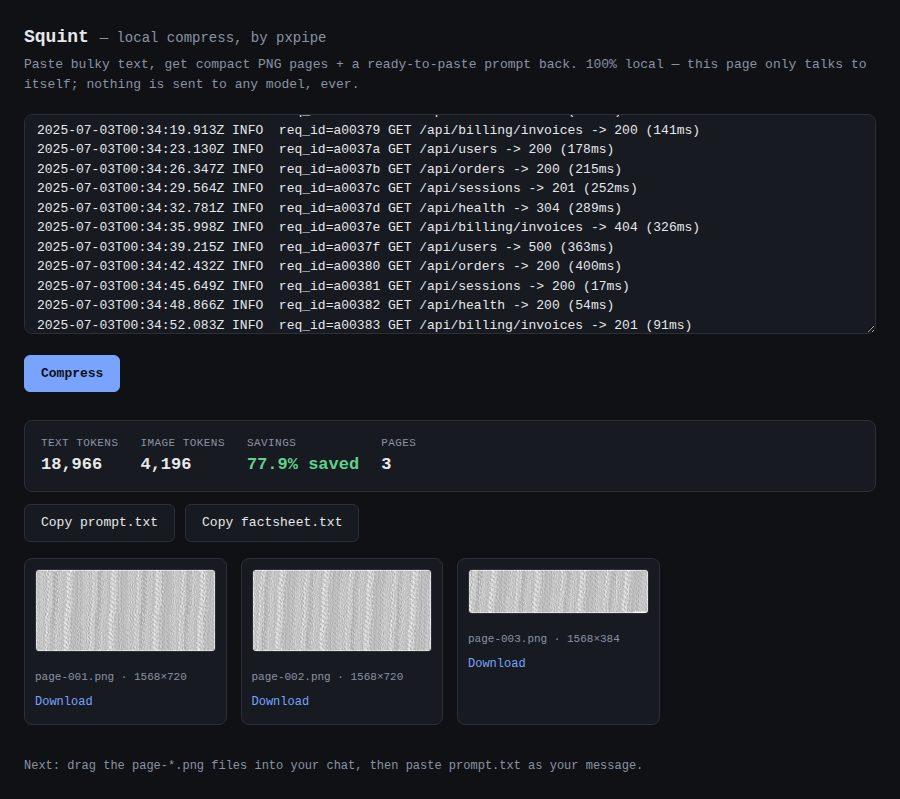
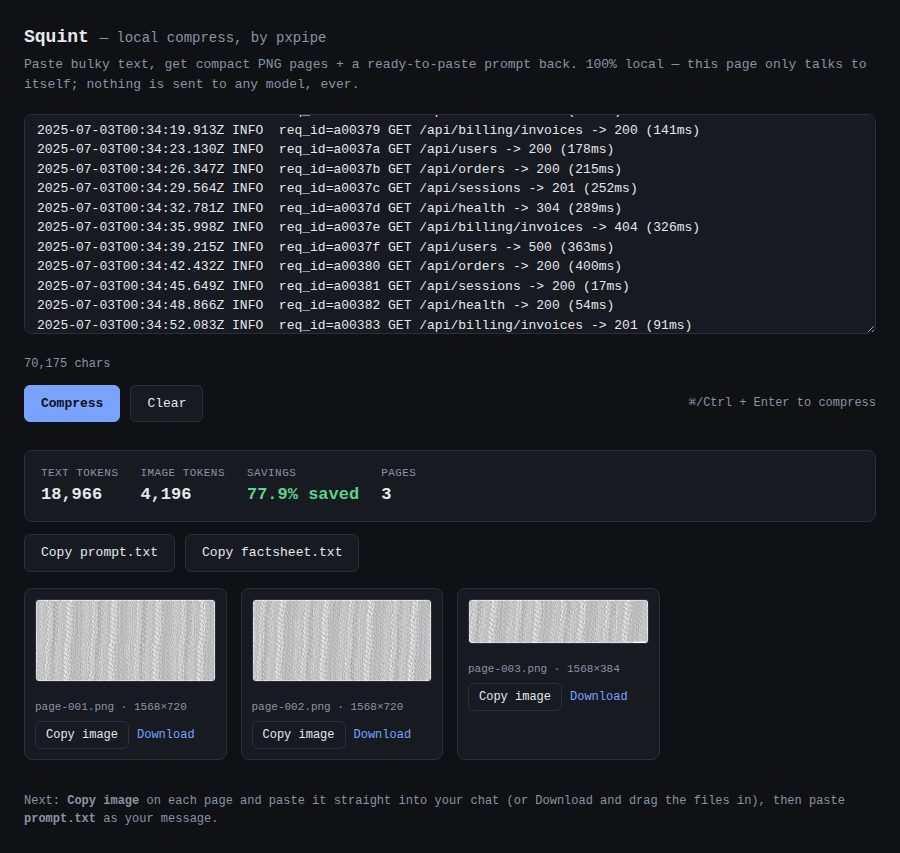
feat(gui): drag-drop file loading + Copy-image-to-clipboard in Squint
Kills the two remaining friction points in the paste→chat workflow:

- Drag a text file directly onto the paste box instead of opening it and
  pasting. Guarded: 8 MB cap, text-only read (a huge/binary drop can't hang
  the tab), and the drop is preventDefault'd so the browser doesn't navigate
  away to the file. Char counter updates on load.
- "Copy image" on each rendered page copies the PNG straight to the clipboard,
  so you paste it into a Claude chat with ⌘/Ctrl+V — no download-then-drag
  dance. The button only appears when the browser can actually write images
  (ClipboardItem + navigator.clipboard.write), falling back to Download-only
  on browsers that can't.

Both verified end-to-end in a real headless browser: a synthetic DataTransfer
drop loads the file text, and clicking Copy image then reading the clipboard
back confirms it holds an image/png. Updated the README GUI screenshot (now
shows the Copy image buttons + char counter) and the workflow copy.

4 new regression tests (drag-drop wiring, clipboard path). typecheck clean;
700 tests pass; build clean.

Claude-Session: https://claude.ai/code/session_01DBwTn5b4JxC3TYmV3rUpoP

diff --git a/src/gui.ts b/src/gui.ts
@@ -128,8 +128,9 @@ export function guiHtml(): string {
   textarea {
     width: 100%; min-height: 220px; resize: vertical; padding: 12px;
     background: var(--panel); color: var(--text); border: 1px solid var(--border);
-    border-radius: 8px; font: inherit; font-size: 13px;
+    border-radius: 8px; font: inherit; font-size: 13px; transition: border-color .12s, background .12s;
   }
+  textarea.dragover { border-color: var(--accent); background: color-mix(in srgb, var(--accent) 12%, var(--panel)); }
   .row { display: flex; align-items: center; gap: 10px; margin-top: 12px; flex-wrap: wrap; }
   button {
     font: inherit; font-size: 13px; padding: 8px 16px; border-radius: 6px; border: 1px solid var(--border);
@@ -157,6 +158,8 @@ export function guiHtml(): string {
   .page-card { border: 1px solid var(--border); border-radius: 8px; padding: 10px; background: var(--panel); }
   .page-card img { width: 100%; border-radius: 4px; border: 1px solid var(--border); background: #fff; }
   .page-cap { color: var(--muted); font-size: 11px; margin: 8px 0 6px; }
+  .card-actions { display: flex; gap: 8px; align-items: center; flex-wrap: wrap; }
+  .card-actions button { padding: 4px 10px; font-size: 12px; }
   .dl-link { font-size: 12px; color: var(--accent); text-decoration: none; }
   .dl-link:hover { text-decoration: underline; }
   footer { margin-top: 32px; color: var(--muted); font-size: 12px; }
@@ -167,7 +170,7 @@ export function guiHtml(): string {
   <h1>Squint <span class="byline">— local compress, by pxpipe</span></h1>
   <p class="sub">Paste bulky text, get compact PNG pages + a ready-to-paste prompt back. 100% local — this page only talks to itself; nothing is sent to any model, ever.</p>
 
-  <textarea id="input" placeholder="Paste your bulky content here (logs, a file dump, old context, JSON, anything dense)…"></textarea>
+  <textarea id="input" placeholder="Paste your bulky content here — or drag a text file onto this box (logs, a file dump, old context, JSON, anything dense)…"></textarea>
   <div class="row">
     <span id="charCount" class="char-count"></span>
   </div>
@@ -194,7 +197,7 @@ export function guiHtml(): string {
     <div id="pageGrid"></div>
   </div>
 
-  <footer>Next: drag the page-*.png files into your chat, then paste prompt.txt as your message.</footer>
+  <footer>Next: <b>Copy image</b> on each page and paste it straight into your chat (or Download and drag the files in), then paste <b>prompt.txt</b> as your message.</footer>
 
 <script>
 (function () {
@@ -227,6 +230,63 @@ export function guiHtml(): string {
 
   function fmt(n) { return n.toLocaleString('en-US'); }
 
+  // Whether this browser can put an image on the clipboard (Chrome/Edge/Safari on
+  // localhost can; older/Firefox may not). Gates the "Copy image" button so we never
+  // show a control that can't work.
+  var canCopyImage = typeof ClipboardItem !== 'undefined' &&
+    !!(navigator.clipboard && navigator.clipboard.write);
+
+  function b64ToBlob(b64, type) {
+    var bin = atob(b64);
+    var bytes = new Uint8Array(bin.length);
+    for (var i = 0; i < bin.length; i++) bytes[i] = bin.charCodeAt(i);
+    return new Blob([bytes], { type: type });
+  }
+
+  function copyImage(b64, btn) {
+    try {
+      var item = new ClipboardItem({ 'image/png': b64ToBlob(b64, 'image/png') });
+      navigator.clipboard.write([item])
+        .then(function () { flash(btn, 'Copied!'); })
+        .catch(function () { flash(btn, 'Copy failed'); });
+    } catch (e) {
+      flash(btn, 'Copy failed');
+    }
+  }
+
+  // Load a dragged-in file's text into the textarea. Text files only; capped so a
+  // huge/binary drop can't hang the tab. (readAsText on binary yields garbage but is
+  // harmless — Compress just makes a noisy image — so the size cap is the real guard.)
+  var MAX_FILE_BYTES = 8 * 1024 * 1024;
+  function loadFile(file) {
+    if (!file) return;
+    if (file.size > MAX_FILE_BYTES) {
+      errorBox.textContent = 'That file is ' + fmt(file.size) + ' bytes — too big to load here (cap ' +
+        fmt(MAX_FILE_BYTES) + '). Open it and paste the part you need instead.';
+      errorBox.hidden = false;
+      return;
+    }
+    var reader = new FileReader();
+    reader.onload = function () {
+      ta.value = typeof reader.result === 'string' ? reader.result : '';
+      updateCharCount();
+      errorBox.hidden = true;
+      ta.focus();
+    };
+    reader.onerror = function () { errorBox.textContent = 'Could not read that file.'; errorBox.hidden = false; };
+    reader.readAsText(file);
+  }
+
+  ta.addEventListener('dragover', function (e) { e.preventDefault(); ta.classList.add('dragover'); });
+  ta.addEventListener('dragleave', function () { ta.classList.remove('dragover'); });
+  ta.addEventListener('drop', function (e) {
+    e.preventDefault();
+    ta.classList.remove('dragover');
+    if (e.dataTransfer && e.dataTransfer.files && e.dataTransfer.files.length) {
+      loadFile(e.dataTransfer.files[0]);
+    }
+  });
+
   function render(data) {
     var m = data.manifest, tr = m.tokenReport;
     var warnBox = document.getElementById('truncatedWarn');
@@ -257,9 +317,20 @@ export function guiHtml(): string {
       var cap = document.createElement('div');
       cap.className = 'page-cap';
       cap.textContent = a.filename + ' · ' + a.width + '×' + a.height;
+      var actions = document.createElement('div');
+      actions.className = 'card-actions';
+      if (canCopyImage) {
+        var copyBtn = document.createElement('button');
+        copyBtn.type = 'button';
+        copyBtn.textContent = 'Copy image';
+        copyBtn.title = 'Copy this page to the clipboard, then paste it straight into your chat';
+        (function (b64, b) { b.addEventListener('click', function () { copyImage(b64, b); }); })(a.base64, copyBtn);
+        actions.appendChild(copyBtn);
+      }
       var dl = document.createElement('a');
       dl.href = src; dl.download = a.filename; dl.className = 'dl-link'; dl.textContent = 'Download';
-      card.appendChild(img); card.appendChild(cap); card.appendChild(dl);
+      actions.appendChild(dl);
+      card.appendChild(img); card.appendChild(cap); card.appendChild(actions);
       grid.appendChild(card);
     });
     results.hidden = false;

diff --git a/tests/gui.test.ts b/tests/gui.test.ts
@@ -57,6 +57,25 @@ describe('guiHtml', () => {
     expect(html).toContain('id="truncatedWarn"');
     expect(html).toContain('data.truncated');
   });
+
+  it('wires drag-and-drop file loading onto the textarea', () => {
+    // Regression guard — verified live via a synthetic DataTransfer drop in a real
+    // browser during development. Must preventDefault the drop (so the browser doesn't
+    // navigate to the file) and read the dropped file's text into the textarea.
+    expect(html).toMatch(/addEventListener\('drop'/);
+    expect(html).toContain('readAsText');
+    expect(html).toContain('dataTransfer.files');
+  });
+
+  it('offers a clipboard "Copy image" path gated on ClipboardItem support', () => {
+    // Regression guard — verified live by reading the clipboard back as image/png in a
+    // real browser. The button is only rendered when the browser can write images
+    // (canCopyImage), and copies a PNG blob built from the page's base64.
+    expect(html).toContain('canCopyImage');
+    expect(html).toContain('ClipboardItem');
+    expect(html).toContain('Copy image');
+    expect(html).toContain("'image/png'");
+  });
 });
 
 describe('runGuiCompress', () => {

diff --git a/README.md b/README.md
@@ -78,14 +78,14 @@ npx pxpipe-proxy gui   # opens a page in your browser (Windows, macOS, or Linux)
   <img src="docs/assets/gui-results-light.jpg" alt="Squint, pxpipe's local gui: a paste box, a Compress button, and results showing 18,966 text tokens vs 4,196 image tokens (77.9% saved) across 3 rendered pages, with Copy prompt.txt / Copy factsheet.txt buttons">
 </picture>
 
-Paste bulky text into the box, click **Compress**, then drag the resulting
-PNG pages into your chat and paste the generated prompt alongside them.
-That's the whole workflow. It's **fully local**: the page only ever talks to
-this same local server, no model API is called and no API key is needed, and
-nothing is ever written to disk — the render lives only in the HTTP response
-until you click Download — see
-[Privacy & data flow](#privacy-data-flow). Requires only Node.js installed
-once; the only prerequisite either way.
+Paste bulky text into the box (or **drag a text file** onto it), click
+**Compress**, then **Copy image** on each page and paste it straight into your
+chat — no download step — and paste the generated prompt alongside them. That's
+the whole workflow. It's **fully local**: the page only ever talks to this same
+local server, no model API is called and no API key is needed, and nothing is
+ever written to disk — the render lives only in the HTTP response until you copy
+or download it — see [Privacy & data flow](#privacy-data-flow). Requires only
+Node.js installed once; the only prerequisite either way.
 
 ## Run it inside GitHub
 